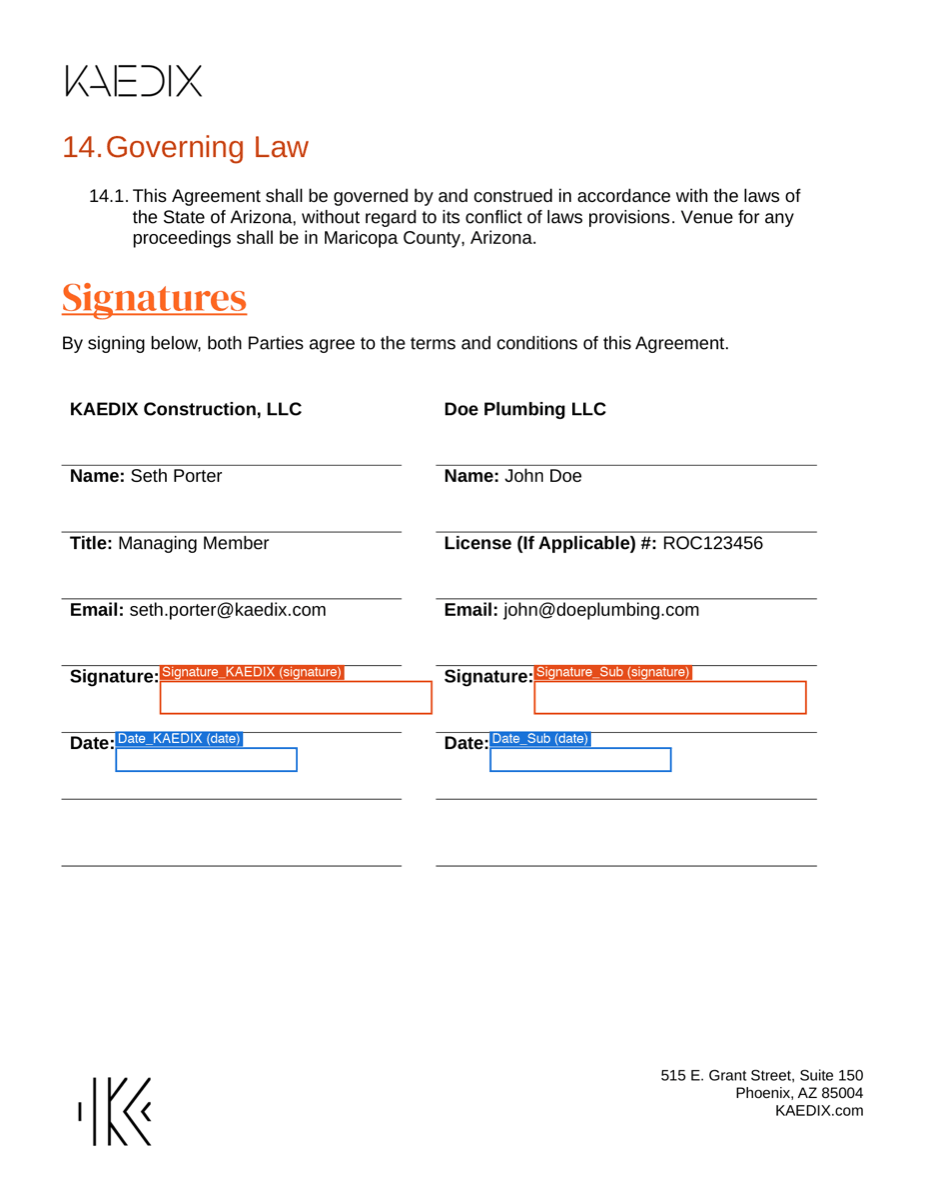
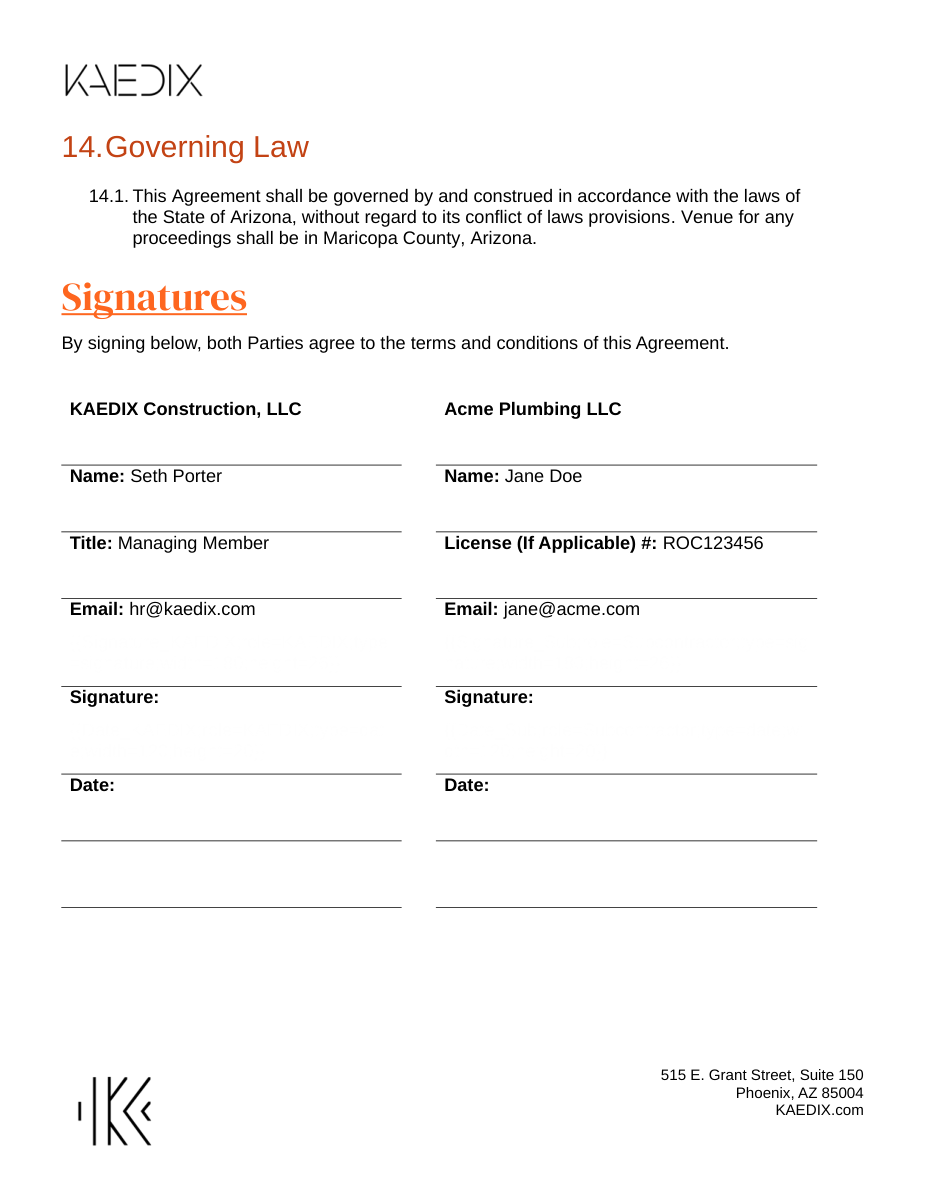
Fix signature/date field anchoring to the correct row
The prior fix (f3c9784) only shrunk field height, but the tag was still
anchored on the Signature:/Date: label's own paragraph, so the field
extended downward into the wrong gap (below the touching line, under the
label) instead of the blank space above it, where Name/Title/Email print
their values.

Each row's own ruled line is the one glued to the top of its label; the
blank writing space for that row is the previous row's spacer paragraph.
Moved each tag into that spacer instead of the label paragraph, and gave
the invisible tag run a normal-size (not 2pt) hidden run so it doesn't
collapse that paragraph's line height and shrink the row.

Verified two ways: PyMuPDF geometry check (box-bottom < line-y with 10-16pt
clearance, no collision with label text above) and an actual DocuSeal
sandbox send, where the auto-placed Signature_KAEDIX/Date_KAEDIX fields
render exactly above their own line, directly under the row above's label.

diff --git a/backend/agreement_generator.py b/backend/agreement_generator.py
@@ -156,78 +156,90 @@ def _populate_xml(xml: str, f: dict) -> str:
 # rendered PDF's text layer so DocuSeal can locate them, but not visible on the page.
 _HIDDEN_TAG_RPR = '<w:rPr><w:color w:val="FFFFFF"/><w:sz w:val="2"/><w:szCs w:val="2"/></w:rPr>'
 
+# Same, but without the sz override. A tiny-font run dropped into a
+# paragraph that previously had no runs at all becomes that paragraph's
+# only sizing signal and collapses its line height (the row shrinks), so
+# the blank spacer paragraphs use this instead — invisible via color alone,
+# sized like normal text so the row keeps its original height.
+_HIDDEN_TAG_RPR_NORMAL_SIZE = '<w:rPr><w:color w:val="FFFFFF"/></w:rPr>'
 
-def _tag_run(tag: str) -> str:
-    return f'<w:r>{_HIDDEN_TAG_RPR}<w:t>{tag}</w:t></w:r>'
+
+def _tag_run(tag: str, *, normal_size: bool = False) -> str:
+    rpr = _HIDDEN_TAG_RPR_NORMAL_SIZE if normal_size else _HIDDEN_TAG_RPR
+    return f'<w:r>{rpr}<w:t>{tag}</w:t></w:r>'
 
 
 def _add_signature_tags(xml: str) -> str:
     """
-    Embed DocuSeal {{...}} text tags next to each Signature/Date line in the
-    Signatures section, mirroring the document's own signature blocks. Each
-    anchor below is matched on its unique paraId so KAEDIX (left column) and
-    Subcontractor (right column) get distinct fields.
+    Embed DocuSeal {{...}} text tags in the Signatures section, mirroring the
+    document's own signature blocks. Each anchor below is matched on its
+    unique paraId so KAEDIX (left column) and Subcontractor (right column)
+    get distinct fields.
 
-    The tag renders inline right after the "Signature:"/"Date:" label, so
-    DocuSeal anchors the field at the label's own line and extends the
-    field's height downward from there. Each row's ruled line sits exactly
-    34pt below that anchor — the same as the field's original height — so a
-    34pt-tall field lands right on top of the line instead of clearing it.
-    Shrinking the field to leave a visible margin (measured against the
-    rendered PDF's actual line/label coordinates, not guessed) keeps it
-    inside the blank space above the line, like every other row's value.
+    DocuSeal anchors a field at the tag's own text position and extends its
+    height downward from there. Every row in this table prints its label at
+    the TOP of the row, with a blank paragraph below it before the row's own
+    ruled line — i.e. the printed value (like Name/Title/Email) sits ABOVE
+    the line, in the gap between the label and the rule, not below it. So
+    each tag is planted in the blank paragraph that already sits directly
+    above the ruled line it should clear — the previous row's spacer, not
+    the Signature:/Date: label's own paragraph — instead of relying on a
+    guessed height to out-run the wrong line. Measured against the rendered
+    PDF: each such gap is ~30pt tall, so height=20 (signature) / height=14
+    (date) clears the rule below by ~10pt with room to spare.
     """
 
-    # KAEDIX — Signature
+    # KAEDIX — Signature: planted in the blank paragraph below Email/KAEDIX,
+    # which sits directly above the Signature row's own ruled line.
     xml = xml.replace(
-        '<w:p w14:paraId="0000010A" w14:textId="536EAB7E" w:rsidR="008777A2" w:rsidRDefault="00F13F85" w:rsidP="008777A2">'
+        '<w:p w14:paraId="00000105" w14:textId="00000106" w:rsidR="008777A2" w:rsidRDefault="008777A2" w:rsidP="008777A2">'
+        '<w:pPr><w:rPr><w:b/><w:bCs/></w:rPr></w:pPr></w:p>',
+        '<w:p w14:paraId="00000105" w14:textId="00000106" w:rsidR="008777A2" w:rsidRDefault="008777A2" w:rsidP="008777A2">'
         '<w:pPr><w:rPr><w:b/><w:bCs/></w:rPr></w:pPr>'
-        '<w:r><w:rPr><w:b/><w:bCs/></w:rPr><w:t>Signature:</w:t></w:r></w:p>',
-        '<w:p w14:paraId="0000010A" w14:textId="536EAB7E" w:rsidR="008777A2" w:rsidRDefault="00F13F85" w:rsidP="008777A2">'
-        '<w:pPr><w:rPr><w:b/><w:bCs/></w:rPr></w:pPr>'
-        '<w:r><w:rPr><w:b/><w:bCs/></w:rPr><w:t>Signature:</w:t></w:r>'
-        + _tag_run('{{Signature_KAEDIX;role=KAEDIX;type=signature;width=180;height=22}}')
+        + _tag_run('{{Signature_KAEDIX;role=KAEDIX;type=signature;width=180;height=26}}', normal_size=True)
         + '</w:p>',
     )
 
-    # Subcontractor — Signature
+    # Subcontractor — Signature: planted in the blank paragraph below
+    # Email/Subcontractor, directly above the Signature row's own line.
+    xml = xml.replace(
+        '<w:p w14:paraId="00000101" w14:textId="7F9B57AD" w:rsidR="008777A2" w:rsidRDefault="008777A2" w:rsidP="008777A2">'
+        '<w:pPr><w:rPr><w:b/><w:bCs/></w:rPr></w:pPr></w:p>',
+        '<w:p w14:paraId="00000101" w14:textId="7F9B57AD" w:rsidR="008777A2" w:rsidRDefault="008777A2" w:rsidP="008777A2">'
+        '<w:pPr><w:rPr><w:b/><w:bCs/></w:rPr></w:pPr>'
+        + _tag_run('{{Signature_Sub;role=Subcontractor;type=signature;width=180;height=26}}', normal_size=True)
+        + '</w:p>',
+    )
+
+    # KAEDIX — Date: planted in the blank paragraph below Signature/KAEDIX,
+    # directly above the Date row's own ruled line.
+    xml = xml.replace(
+        '<w:p w14:paraId="00000110" w14:textId="00000111" w:rsidR="008777A2" w:rsidRDefault="008777A2" w:rsidP="008777A2">'
+        '<w:pPr><w:rPr><w:b/><w:bCs/></w:rPr></w:pPr></w:p>',
+        '<w:p w14:paraId="00000110" w14:textId="00000111" w:rsidR="008777A2" w:rsidRDefault="008777A2" w:rsidP="008777A2">'
+        '<w:pPr><w:rPr><w:b/><w:bCs/></w:rPr></w:pPr>'
+        + _tag_run('{{Date_KAEDIX;role=KAEDIX;type=date;width=120;height=20}}', normal_size=True)
+        + '</w:p>',
+    )
+
+    # Subcontractor — Date: the Subcontractor column has no separate blank
+    # spacer paragraph below Signature/Subcontractor the way the KAEDIX
+    # column does (paraId 00000110) — that row is only as tall as it is
+    # because the KAEDIX column's spacer forces the shared row height. Add
+    # the same kind of spacer paragraph here, mirroring the KAEDIX column,
+    # and plant the tag there instead of inline on the label (which would
+    # anchor at the label's own top and reproduce the exact bug being fixed).
     xml = xml.replace(
         '<w:p w14:paraId="0000010C" w14:textId="165B9C7D" w:rsidR="008777A2" w:rsidRDefault="00F13F85" w:rsidP="008777A2">'
         '<w:pPr><w:rPr><w:b/><w:bCs/></w:rPr></w:pPr>'
-        '<w:r><w:rPr><w:b/><w:bCs/></w:rPr><w:t>Signature:</w:t></w:r></w:p>',
+        '<w:r><w:rPr><w:b/><w:bCs/></w:rPr><w:t>Signature:</w:t></w:r></w:p></w:tc>',
         '<w:p w14:paraId="0000010C" w14:textId="165B9C7D" w:rsidR="008777A2" w:rsidRDefault="00F13F85" w:rsidP="008777A2">'
         '<w:pPr><w:rPr><w:b/><w:bCs/></w:rPr></w:pPr>'
-        '<w:r><w:rPr><w:b/><w:bCs/></w:rPr><w:t>Signature:</w:t></w:r>'
-        + _tag_run('{{Signature_Sub;role=Subcontractor;type=signature;width=180;height=22}}')
-        + '</w:p>',
-    )
-
-    # KAEDIX — Date
-    xml = xml.replace(
-        '<w:p w14:paraId="00000115" w14:textId="57B5D25F" w:rsidR="008777A2" w:rsidRDefault="008777A2" w:rsidP="008777A2">'
+        '<w:r><w:rPr><w:b/><w:bCs/></w:rPr><w:t>Signature:</w:t></w:r></w:p>'
+        '<w:p w14:paraId="00000113" w14:textId="00000113" w:rsidR="008777A2" w:rsidRDefault="008777A2" w:rsidP="008777A2">'
         '<w:pPr><w:rPr><w:b/><w:bCs/></w:rPr></w:pPr>'
-        '<w:r><w:rPr><w:b/><w:bCs/></w:rPr><w:t>Date</w:t></w:r>'
-        '<w:r w:rsidR="00F13F85"><w:rPr><w:b/><w:bCs/></w:rPr><w:t>:</w:t></w:r></w:p>',
-        '<w:p w14:paraId="00000115" w14:textId="57B5D25F" w:rsidR="008777A2" w:rsidRDefault="008777A2" w:rsidP="008777A2">'
-        '<w:pPr><w:rPr><w:b/><w:bCs/></w:rPr></w:pPr>'
-        '<w:r><w:rPr><w:b/><w:bCs/></w:rPr><w:t>Date</w:t></w:r>'
-        '<w:r w:rsidR="00F13F85"><w:rPr><w:b/><w:bCs/></w:rPr><w:t>:</w:t></w:r>'
-        + _tag_run('{{Date_KAEDIX;role=KAEDIX;type=date;width=120;height=16}}')
-        + '</w:p>',
-    )
-
-    # Subcontractor — Date
-    xml = xml.replace(
-        '<w:p w14:paraId="00000117" w14:textId="755458EE" w:rsidR="008777A2" w:rsidRDefault="008777A2" w:rsidP="008777A2">'
-        '<w:pPr><w:rPr><w:b/><w:bCs/></w:rPr></w:pPr>'
-        '<w:r><w:rPr><w:b/><w:bCs/></w:rPr><w:t>Date</w:t></w:r>'
-        '<w:r w:rsidR="00F13F85"><w:rPr><w:b/><w:bCs/></w:rPr><w:t>:</w:t></w:r></w:p>',
-        '<w:p w14:paraId="00000117" w14:textId="755458EE" w:rsidR="008777A2" w:rsidRDefault="008777A2" w:rsidP="008777A2">'
-        '<w:pPr><w:rPr><w:b/><w:bCs/></w:rPr></w:pPr>'
-        '<w:r><w:rPr><w:b/><w:bCs/></w:rPr><w:t>Date</w:t></w:r>'
-        '<w:r w:rsidR="00F13F85"><w:rPr><w:b/><w:bCs/></w:rPr><w:t>:</w:t></w:r>'
-        + _tag_run('{{Date_Sub;role=Subcontractor;type=date;width=120;height=16}}')
-        + '</w:p>',
+        + _tag_run('{{Date_Sub;role=Subcontractor;type=date;width=120;height=20}}', normal_size=True)
+        + '</w:p></w:tc>',
     )
 
     return xml
